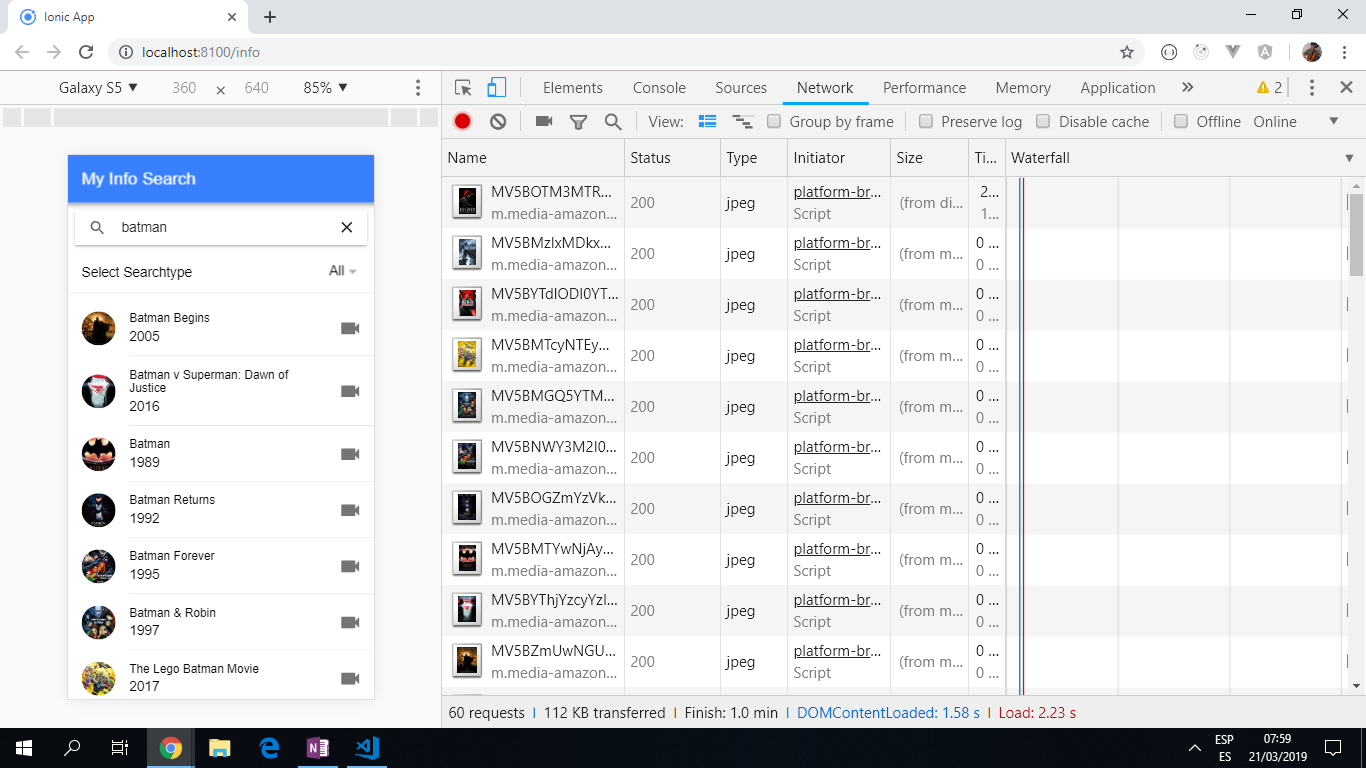
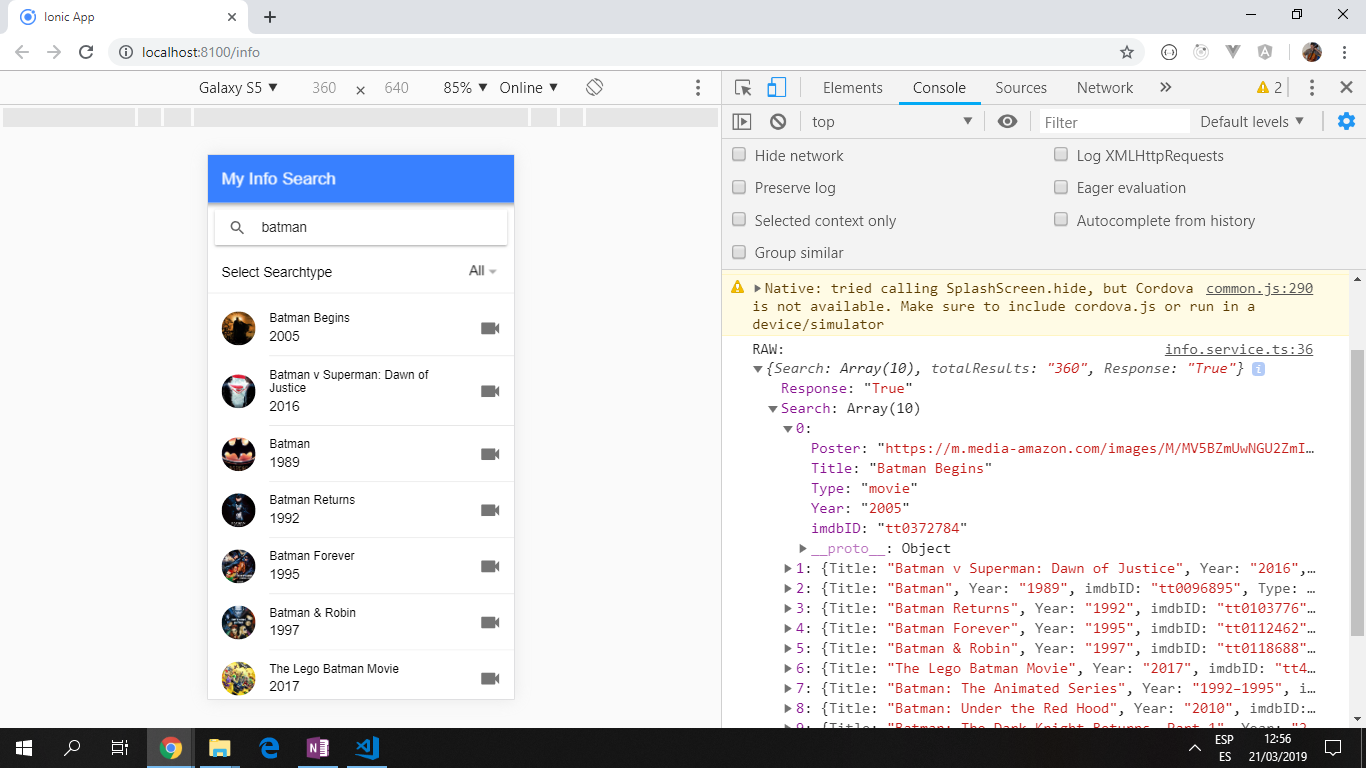
info detail coded, fully working search

diff --git a/src/app/pages/info-details/info-details.page.html b/src/app/pages/info-details/info-details.page.html
@@ -1,6 +1,6 @@
 <ion-header>
   <ion-toolbar color="primary">
-    <ion-buttons>
+    <ion-buttons slot="start">
       <ion-back-button defaultHref="/"></ion-back-button>
     </ion-buttons>
     <ion-title>{{ information?.Genre }}</ion-title>
@@ -9,28 +9,41 @@
 
 <ion-content padding>
 
-<ion-card *ngIf="information">
-  <ion-card-header>
-    <ion-card-title>
-      {{ information.Title }}
-    </ion-card-title>
-    <ion-card-subtitle>
-      {{ information.Year }}
-    </ion-card-subtitle>
-  </ion-card-header>
+  <ion-card *ngIf="information">
+    <ion-card-header>
+      <ion-card-title>
+        {{ information.Title }}
+      </ion-card-title>
+      <ion-card-subtitle>
+        {{ information.Year }}
+      </ion-card-subtitle>
+    </ion-card-header>
 
-  <ion-card-content text-center>
-    <img [src]="information.Poster" class="info.img">
-      {{ information.Plot }}
+    <ion-card-content text-center>
+      <img [src]="information.Poster" class="info-img">
+        {{ information.Plot }}
 
-    <ion-item lines="none">
-      <ion-icon></ion-icon>
-      <ion-label></ion-label>
-    </ion-item>
+      <ion-item lines="none">
+        <ion-icon name="star-half" slot="start"></ion-icon>
+        <ion-label>{{ information.imdbRating }}</ion-label>
+      </ion-item>
 
+      <ion-item lines="none">
+        <ion-icon name="clipboard" slot="start"></ion-icon>
+        <ion-label text-wrap>{{ information.Director }}</ion-label>
+      </ion-item>
 
-  </ion-card-content>
+      <ion-item lines="none">
+        <ion-icon name="contacts" slot="start"></ion-icon>
+        <ion-label text-wrap>{{ information.Actors }}</ion-label>
+      </ion-item>
 
-</ion-card>
+      <ion-button expand="full" (click)="openWebsite()" *ngIf="information.Website && information.Website !='N/A'">
+        <ion-icon name="open" slot="start"></ion-icon>
+        Open Website
+      </ion-button>
+    </ion-card-content>
+
+  </ion-card>
 
 </ion-content>

diff --git a/src/assets/examples/searchresult.html b/src/assets/examples/searchresult.html
@@ -1,0 +1,32 @@
+{
+	"Title":"Batman",
+	"Year":"1989",
+	"Rated":"PG-13",
+	"Released":"23 Jun 1989",
+	"Runtime":"126 min",
+	"Genre":"Action, Adventure",
+	"Director":"Tim Burton",
+	"Writer":"Bob Kane (Batman characters), Sam Hamm (story), Sam Hamm (screenplay), Warren Skaaren (screenplay)",
+	"Actors":"Michael Keaton, Jack Nicholson, Kim Basinger, Robert Wuhl",
+	"Plot":"Gotham City. Crime boss Carl Grissom (Jack Palance) effectively runs the town but there's a new crime fighter in town - Batman (Michael Keaton). Grissom's right-hand man is Jack Napier (Jack Nicholson), a brutal man who is not entirely sane... After falling out between the two Grissom has Napier set up with the Police and Napier falls to his apparent death in a vat of chemicals. However, he soon reappears as The Joker and starts a reign of terror in Gotham City. Meanwhile, reporter Vicki Vale (Kim Basinger) is in the city to do an article on Batman. She soon starts a relationship with Batman's everyday persona, billionaire Bruce Wayne.",
+	"Language":"English, French, Spanish",
+	"Country":"USA, UK",
+	"Awards":"Won 1 Oscar. Another 8 wins & 26 nominations.",
+	"Poster":"https://m.media-amazon.com/images/M/MV5BMTYwNjAyODIyMF5BMl5BanBnXkFtZTYwNDMwMDk2._V1_SX300.jpg",
+	"Ratings":
+		[
+		{"Source":"Internet Movie Database","Value":"7.5/10"},
+		{"Source":"Rotten Tomatoes","Value":"71%"},
+		{"Source":"Metacritic","Value":"69/100"}
+		],
+	"Metascore":"69",
+	"imdbRating":"7.5",
+	"imdbVotes":"308,684",
+	"imdbID":"tt0096895",
+	"Type":"movie",
+	"DVD":"25 Mar 1997",
+	"BoxOffice":"N/A",
+	"Production":"Warner Bros. Pictures",
+	"Website":"N/A",
+	"Response":"True"
+}

diff --git a/src/app/services/info.service.ts b/src/app/services/info.service.ts
@@ -30,11 +30,15 @@ export class InfoService {
   // @param {SearchType} type movie, series, episode or empty
   // @returns Observable with the search results
   searchData(title: string, type: SearchType): Observable<any> {
-    return this.http.get(`${this.url}?s=${encodeURI(title)}&type=${type}&apikey=${this.apiKey}`).pipe(
-      map(results => results['Search'])
+    return this.http.get(`${this.url}?s=${encodeURI(title)}&type=${type}&apikey=${this.apiKey}`)
+      .pipe(
+        map(results => {
+          console.log('RAW: ', results);
+          return results['Search'];
+        })
       );
   }
-  // Get detailed information using the "id" parameter
+  // Get detailed information using the "i" (not "id") parameter
   // @param {string} id imdbID to retrieve information
   // @returns Observable with detailed information
   getDetails(id) {

diff --git a/src/app/pages/info-details/info-details.page.ts b/src/app/pages/info-details/info-details.page.ts
@@ -8,6 +8,7 @@ import { InfoService } from './../../services/info.service';
   templateUrl: './info-details.page.html',
   styleUrls: ['./info-details.page.scss'],
 })
+
 export class InfoDetailsPage implements OnInit {
 
   information = null;
@@ -21,12 +22,10 @@ export class InfoDetailsPage implements OnInit {
     // Get the information from the API
     this.infoService.getDetails(id).subscribe(result => {
       this.information = result;
-      console.log(result);
     });
   }
 
   openWebsite() {
     window.open(this.information.Website, '_blank');
   }
-  }
-
+}

diff --git a/src/app/pages/info/info.page.html b/src/app/pages/info/info.page.html
@@ -19,7 +19,7 @@
 
   <ion-list>
 
-    <ion-item button *ngFor="let item of (results | async)" [routerLink]="['/', 'movies', item.imdbID]">
+    <ion-item button *ngFor="let item of (results | async)" [routerLink]="['/', 'info', item.imdbID]">
       <ion-avatar slot="start">
         <img [src]="item.Poster" *ngIf="item.Poster != 'N/A'">
       </ion-avatar>

diff --git a/README.md b/README.md
@@ -1,7 +1,7 @@
-# Ionic Angular Photostore
+# Ionic Angular InfoApp
 
 App to search for info from an API and display it using the [Ionic 4 framework](https://ionicframework.com/docs).
-Currently using a movie database to develop the app.
+Currently using a movie database API to develop the app.
 
 ## Table of contents
 
@@ -15,6 +15,8 @@ Currently using a movie database to develop the app.
 * [Contact](#contact)
 
 ## General info
+
+An active search bar enables the user to search for movies, with a list of matches appearing below. Each returned movie card can be clicked on to see more details. The API searches the [The Open Movie Database](http://www.omdbapi.com/) for search matches.
 
 ## Screenshots
 
